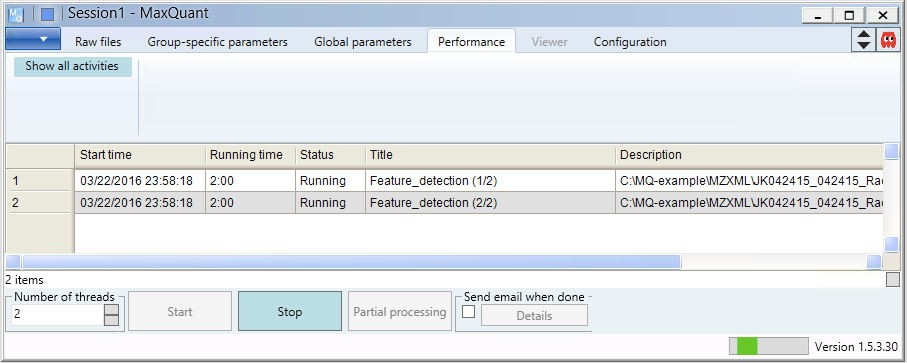
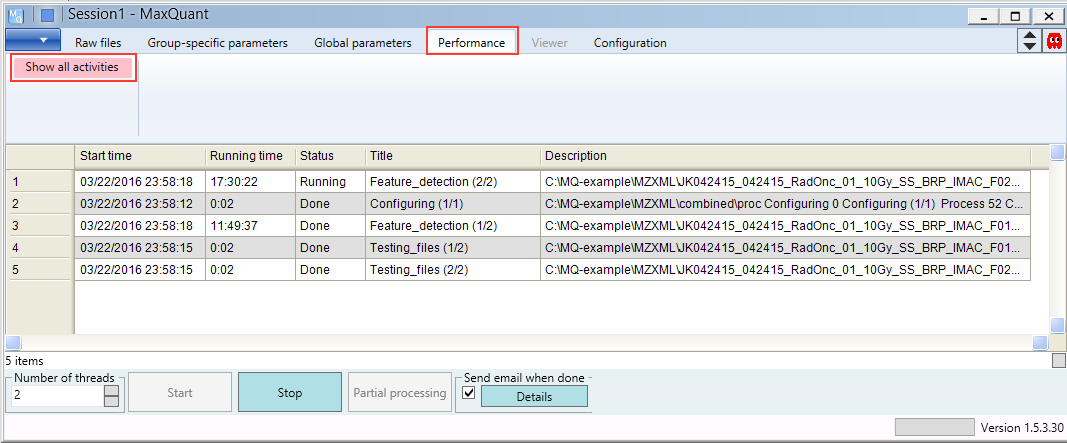
updated running image and doc link

diff --git a/docs/RunningMaxQuant.md b/docs/RunningMaxQuant.md
@@ -88,12 +88,7 @@ Select the **"Group-specific parameters"** tab, then the **"Misc."** sub-tab. Ch
 
 ![](/docs/RunningMaxQuant/maxquant-threads-start.png)
 
-
 ![](/docs/RunningMaxQuant/maxquant-running.png)
-
-
-![](/docs/RunningMaxQuant/maxquant-running-status-files.png)
-
 
 
 
